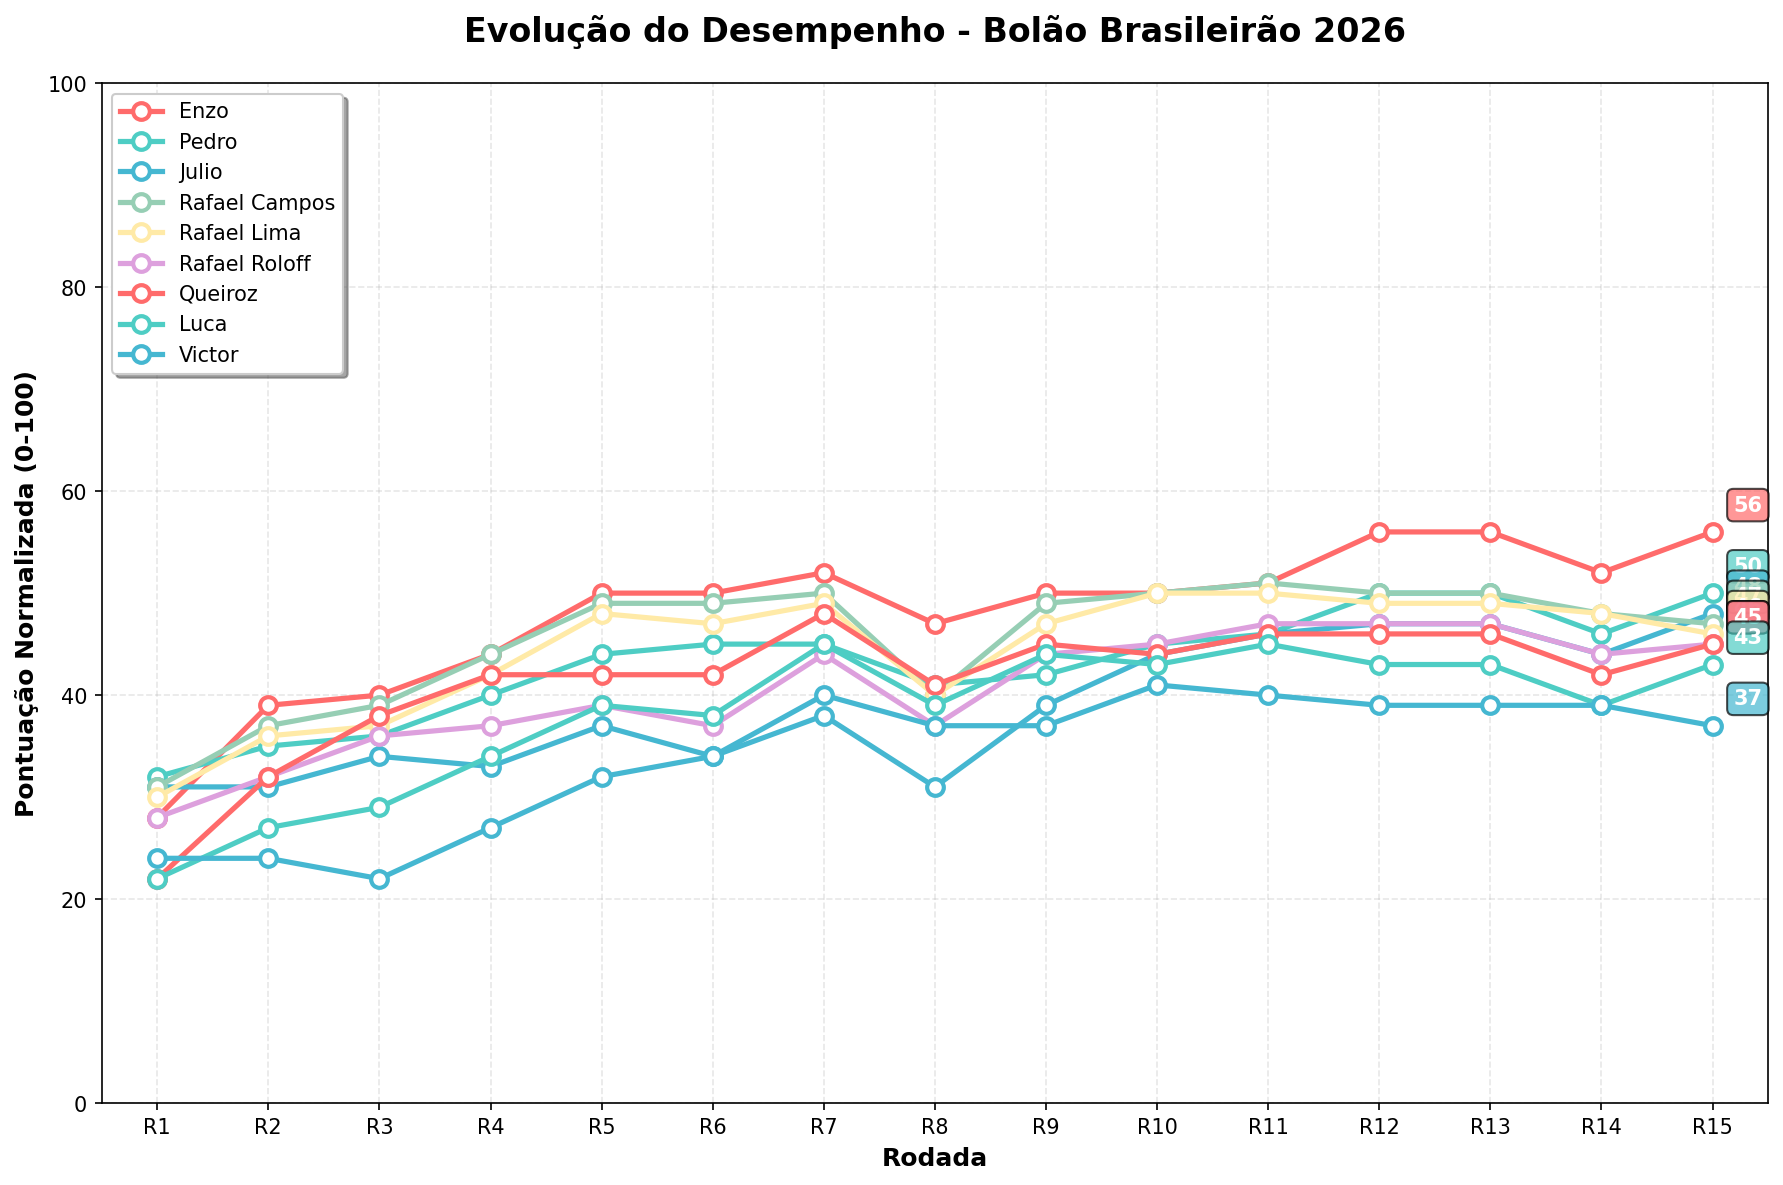
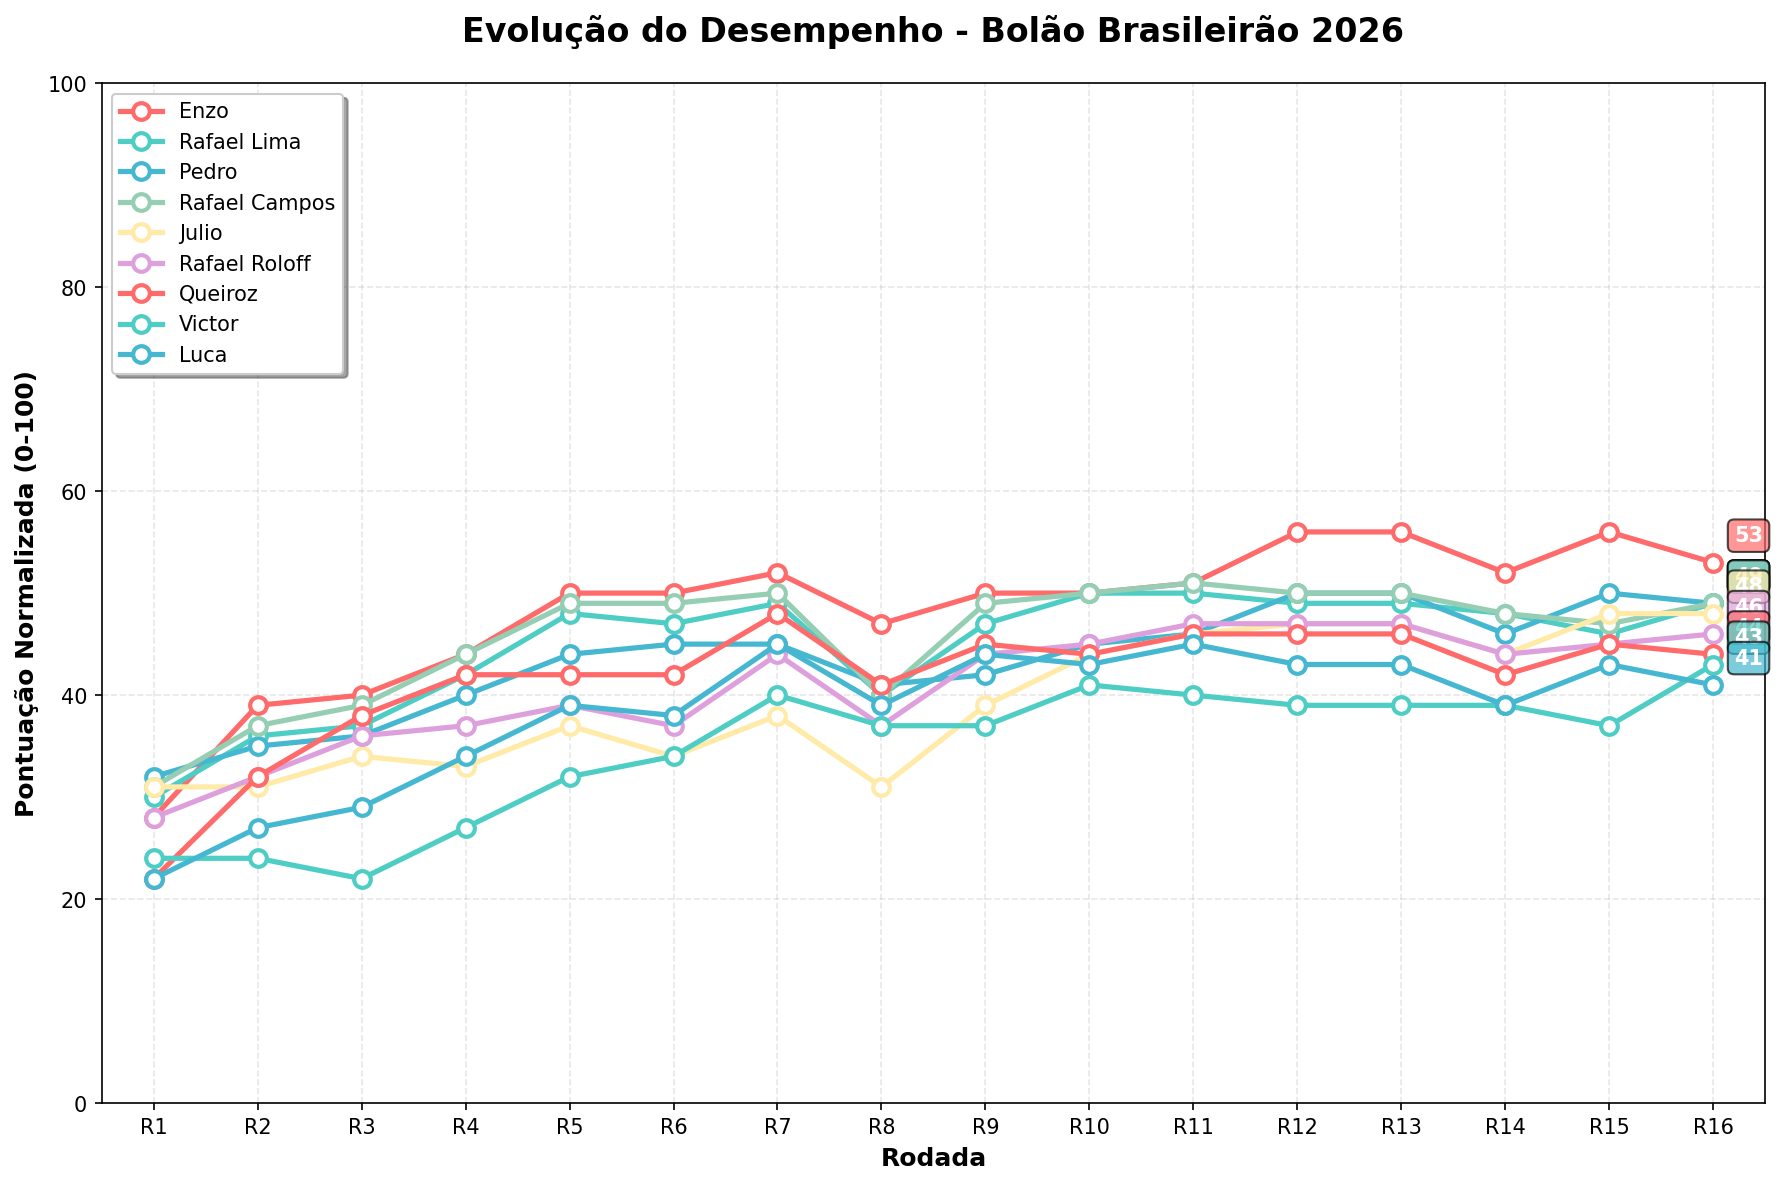
Atualizacao automatica - 18/05/2026 11:00:06,06

diff --git a/README.md b/README.md
@@ -2,71 +2,71 @@
 
 ## 🏆 Resultados Atuais
 
-**Última Atualização:** 2026-05-12 11:00:03
+**Última Atualização:** 2026-05-18 11:00:03
 
-| Time | Real | Enzo | Pedro | Julio | Rafael Campos | Rafael Lima | Rafael Roloff | Queiroz | Luca | Victor |
+| Time | Real | Enzo | Rafael Lima | Pedro | Rafael Campos | Julio | Rafael Roloff | Queiroz | Victor | Luca |
 |------|------|------|------|------|------|------|------|------|------|------|
-| Palmeiras | 1 | 2°(19p) | 3°(18p) | 2°(19p) | 3°(18p) | 3°(18p) | 2°(19p) | 3°(18p) | 3°(18p) | 3°(18p) |
-| Flamengo | 2 | 1°(19p) | 2°(20p) | 1°(19p) | 1°(19p) | 1°(19p) | 1°(19p) | 1°(19p) | 1°(19p) | 1°(19p) |
-| Fluminense | 3 | 4°(19p) | 4°(19p) | 7°(16p) | 7°(16p) | 6°(17p) | 8°(15p) | 7°(16p) | 8°(15p) | 10°(13p) |
-| São Paulo | 4 | 16°(8p) | 15°(9p) | 15°(9p) | 12°(12p) | 14°(10p) | 16°(8p) | 17°(7p) | 14°(10p) | 16°(8p) |
-| Atlético-PR | 5 | 17°(8p) | 18°(7p) | 17°(8p) | 17°(8p) | 17°(8p) | 17°(8p) | 15°(10p) | 17°(8p) | 13°(12p) |
-| Bahia | 6 | 5°(19p) | 7°(19p) | 5°(19p) | 4°(18p) | 4°(18p) | 6°(20p) | 4°(18p) | 5°(19p) | 9°(17p) |
-| Bragantino | 7 | 6°(19p) | 9°(18p) | 10°(17p) | 10°(17p) | 10°(17p) | 13°(14p) | 18°(9p) | 13°(14p) | 15°(12p) |
-| Vasco | 8 | 9°(19p) | 10°(18p) | 11°(17p) | 14°(14p) | 15°(13p) | 11°(17p) | 10°(18p) | 9°(19p) | 12°(16p) |
-| Coritiba | 9 | 15°(14p) | 19°(10p) | 19°(10p) | 16°(13p) | 16°(13p) | 14°(15p) | 12°(17p) | 20°(9p) | 20°(9p) |
-| Vitória | 10 | 18°(12p) | 17°(13p) | 16°(14p) | 18°(12p) | 18°(12p) | 18°(12p) | 19°(11p) | 18°(12p) | 17°(13p) |
-| Cruzeiro | 11 | 3°(12p) | 1°(10p) | 3°(12p) | 2°(11p) | 2°(11p) | 3°(12p) | 2°(11p) | 2°(11p) | 7°(16p) |
-| Botafogo | 12 | 10°(18p) | 5°(13p) | 6°(14p) | 9°(17p) | 8°(16p) | 7°(15p) | 11°(19p) | 11°(19p) | 5°(13p) |
-| Atlético-MG | 13 | 12°(19p) | 13°(20p) | 4°(11p) | 5°(12p) | 5°(12p) | 4°(11p) | 9°(16p) | 4°(11p) | 2°(9p) |
-| Internacional | 14 | 14°(20p) | 14°(20p) | 14°(20p) | 15°(19p) | 13°(19p) | 15°(19p) | 14°(20p) | 15°(19p) | 6°(12p) |
-| Santos | 15 | 11°(16p) | 11°(16p) | 12°(17p) | 13°(18p) | 12°(17p) | 9°(14p) | 13°(18p) | 7°(12p) | 11°(16p) |
-| Corinthians | 16 | 8°(12p) | 8°(12p) | 9°(13p) | 8°(12p) | 9°(13p) | 5°(9p) | 6°(10p) | 10°(14p) | 8°(12p) |
-| Grêmio | 17 | 7°(10p) | 6°(9p) | 18°(19p) | 6°(9p) | 7°(10p) | 12°(15p) | 5°(8p) | 6°(9p) | 4°(7p) |
-| Mirassol | 18 | 13°(15p) | 12°(14p) | 8°(10p) | 11°(13p) | 11°(13p) | 10°(12p) | 8°(10p) | 12°(14p) | 14°(16p) |
-| Remo | 19 | 20°(19p) | 16°(17p) | 13°(14p) | 20°(19p) | 20°(19p) | 20°(19p) | 16°(17p) | 16°(17p) | 19°(20p) |
-| Chapecoense | 20 | 19°(19p) | 20°(20p) | 20°(20p) | 19°(19p) | 19°(19p) | 19°(19p) | 20°(20p) | 19°(19p) | 18°(18p) |
-| **TOTAL** | | **316** | **302** | **298** | **296** | **294** | **292** | **292** | **288** | **276** |
+| Palmeiras | 1 | 2°(19p) | 3°(18p) | 3°(18p) | 3°(18p) | 2°(19p) | 2°(19p) | 3°(18p) | 3°(18p) | 3°(18p) |
+| Flamengo | 2 | 1°(19p) | 1°(19p) | 2°(20p) | 1°(19p) | 1°(19p) | 1°(19p) | 1°(19p) | 1°(19p) | 1°(19p) |
+| Fluminense | 3 | 4°(19p) | 6°(17p) | 4°(19p) | 7°(16p) | 7°(16p) | 8°(15p) | 7°(16p) | 10°(13p) | 8°(15p) |
+| São Paulo | 4 | 16°(8p) | 14°(10p) | 15°(9p) | 12°(12p) | 15°(9p) | 16°(8p) | 17°(7p) | 16°(8p) | 14°(10p) |
+| Atlético-PR | 5 | 17°(8p) | 17°(8p) | 18°(7p) | 17°(8p) | 17°(8p) | 17°(8p) | 15°(10p) | 13°(12p) | 17°(8p) |
+| Bragantino | 6 | 6°(20p) | 10°(16p) | 9°(17p) | 10°(16p) | 10°(16p) | 13°(13p) | 18°(8p) | 15°(11p) | 13°(13p) |
+| Bahia | 7 | 5°(18p) | 4°(17p) | 7°(20p) | 4°(17p) | 5°(18p) | 6°(19p) | 4°(17p) | 9°(18p) | 5°(18p) |
+| Coritiba | 8 | 15°(13p) | 16°(12p) | 19°(9p) | 16°(12p) | 19°(9p) | 14°(14p) | 12°(16p) | 20°(8p) | 20°(8p) |
+| Botafogo | 9 | 10°(19p) | 8°(19p) | 5°(16p) | 9°(20p) | 6°(17p) | 7°(18p) | 11°(18p) | 5°(16p) | 11°(18p) |
+| Atlético-MG | 10 | 12°(18p) | 5°(15p) | 13°(17p) | 5°(15p) | 4°(14p) | 4°(14p) | 9°(19p) | 2°(12p) | 4°(14p) |
+| Internacional | 11 | 14°(17p) | 13°(18p) | 14°(17p) | 15°(16p) | 14°(17p) | 15°(16p) | 14°(17p) | 6°(15p) | 15°(16p) |
+| Vasco | 12 | 9°(17p) | 15°(17p) | 10°(18p) | 14°(18p) | 11°(19p) | 11°(19p) | 10°(18p) | 12°(20p) | 9°(17p) |
+| Cruzeiro | 13 | 3°(10p) | 2°(9p) | 1°(8p) | 2°(9p) | 3°(10p) | 3°(10p) | 2°(9p) | 7°(14p) | 2°(9p) |
+| Vitória | 14 | 18°(16p) | 18°(16p) | 17°(17p) | 18°(16p) | 16°(18p) | 18°(16p) | 19°(15p) | 17°(17p) | 18°(16p) |
+| Grêmio | 15 | 7°(12p) | 7°(12p) | 6°(11p) | 6°(11p) | 18°(17p) | 12°(17p) | 5°(10p) | 4°(9p) | 6°(11p) |
+| Santos | 16 | 11°(15p) | 12°(16p) | 11°(15p) | 13°(17p) | 12°(16p) | 9°(13p) | 13°(17p) | 11°(15p) | 7°(11p) |
+| Corinthians | 17 | 8°(11p) | 9°(12p) | 8°(11p) | 8°(11p) | 9°(12p) | 5°(8p) | 6°(9p) | 8°(11p) | 10°(13p) |
+| Remo | 18 | 20°(18p) | 20°(18p) | 16°(18p) | 20°(18p) | 13°(15p) | 20°(18p) | 16°(18p) | 19°(19p) | 16°(18p) |
+| Mirassol | 19 | 13°(14p) | 11°(12p) | 12°(13p) | 11°(12p) | 8°(9p) | 10°(11p) | 8°(9p) | 14°(15p) | 12°(13p) |
+| Chapecoense | 20 | 19°(19p) | 19°(19p) | 20°(20p) | 19°(19p) | 20°(20p) | 19°(19p) | 20°(20p) | 18°(18p) | 19°(19p) |
+| **TOTAL** | | **310** | **300** | **300** | **300** | **298** | **294** | **290** | **288** | **284** |
 
 ### 🏅 Classificação Atual (pontuação normalizada 0-100)
 
-🥇 **Enzo**: 56 pontos<br>
-🥈 **Pedro**: 50 pontos<br>
-🥉 **Julio**: 48 pontos<br>
-4. **Rafael Campos**: 47 pontos<br>
-5. **Rafael Lima**: 46 pontos<br>
-6. **Rafael Roloff**: 45 pontos<br>
-7. **Queiroz**: 45 pontos<br>
-8. **Luca**: 43 pontos<br>
-9. **Victor**: 37 pontos<br>
+🥇 **Enzo**: 53 pontos<br>
+🥈 **Rafael Lima**: 49 pontos<br>
+🥉 **Pedro**: 49 pontos<br>
+4. **Rafael Campos**: 49 pontos<br>
+5. **Julio**: 48 pontos<br>
+6. **Rafael Roloff**: 46 pontos<br>
+7. **Queiroz**: 44 pontos<br>
+8. **Victor**: 43 pontos<br>
+9. **Luca**: 41 pontos<br>
 
 ### 📈 Histórico de Desempenho
 
 ![Gráfico de Performance](performance_chart.png)
 
-| Rodada | Enzo | Pedro | Julio | Rafael Campos | Rafael Lima | Rafael Roloff | Queiroz | Luca | Victor |
+| Rodada | Enzo | Rafael Lima | Pedro | Rafael Campos | Julio | Rafael Roloff | Queiroz | Victor | Luca |
 |-------|-------|-------|-------|-------|-------|-------|-------|-------|-------|
-| R6 | 50 | 45 | 34 | 49 | 47 | 37 | 42 | 38 | 34 |
-| R7 | 52 | 45 | 38 | 50 | 49 | 44 | 48 | 45 | 40 |
-| R8 | 47 | 41 | 31 | 40 | 40 | 37 | 41 | 39 | 37 |
-| R9 | 50 | 42 | 39 | 49 | 47 | 44 | 45 | 44 | 37 |
-| R10 | 50 | 45 | 44 | 50 | 50 | 45 | 44 | 43 | 41 |
-| R11 | 51 | 46 | 46 | 51 | 50 | 47 | 46 | 45 | 40 |
-| R12 | 56 | 50 | 47 | 50 | 49 | 47 | 46 | 43 | 39 |
-| R13 | 56 | 50 | 47 | 50 | 49 | 47 | 46 | 43 | 39 |
-| R14 | 52 | 46 | 44 | 48 | 48 | 44 | 42 | 39 | 39 |
-| R15 | 56 | 50 | 48 | 47 | 46 | 45 | 45 | 43 | 37 |
+| R7 | 52 | 49 | 45 | 50 | 38 | 44 | 48 | 40 | 45 |
+| R8 | 47 | 40 | 41 | 40 | 31 | 37 | 41 | 37 | 39 |
+| R9 | 50 | 47 | 42 | 49 | 39 | 44 | 45 | 37 | 44 |
+| R10 | 50 | 50 | 45 | 50 | 44 | 45 | 44 | 41 | 43 |
+| R11 | 51 | 50 | 46 | 51 | 46 | 47 | 46 | 40 | 45 |
+| R12 | 56 | 49 | 50 | 50 | 47 | 47 | 46 | 39 | 43 |
+| R13 | 56 | 49 | 50 | 50 | 47 | 47 | 46 | 39 | 43 |
+| R14 | 52 | 48 | 46 | 48 | 44 | 44 | 42 | 39 | 39 |
+| R15 | 56 | 46 | 50 | 47 | 48 | 45 | 45 | 37 | 43 |
+| R16 | 53 | 49 | 49 | 49 | 48 | 46 | 44 | 43 | 41 |
 
 **Tendência (últimas 2 medições):**
-- **Enzo**: 📈 +4
-- **Pedro**: 📈 +4
-- **Julio**: 📈 +4
-- **Rafael Campos**: 📉 -1
-- **Rafael Lima**: 📉 -2
+- **Enzo**: 📉 -3
+- **Rafael Lima**: 📈 +3
+- **Pedro**: 📉 -1
+- **Rafael Campos**: 📈 +2
+- **Julio**: ➡️ =0
 - **Rafael Roloff**: 📈 +1
-- **Queiroz**: 📈 +3
-- **Luca**: 📈 +4
-- **Victor**: 📉 -2
+- **Queiroz**: 📉 -1
+- **Victor**: 📈 +6
+- **Luca**: 📉 -2
 
 ## 🎯 Sistema de Pontuação
 